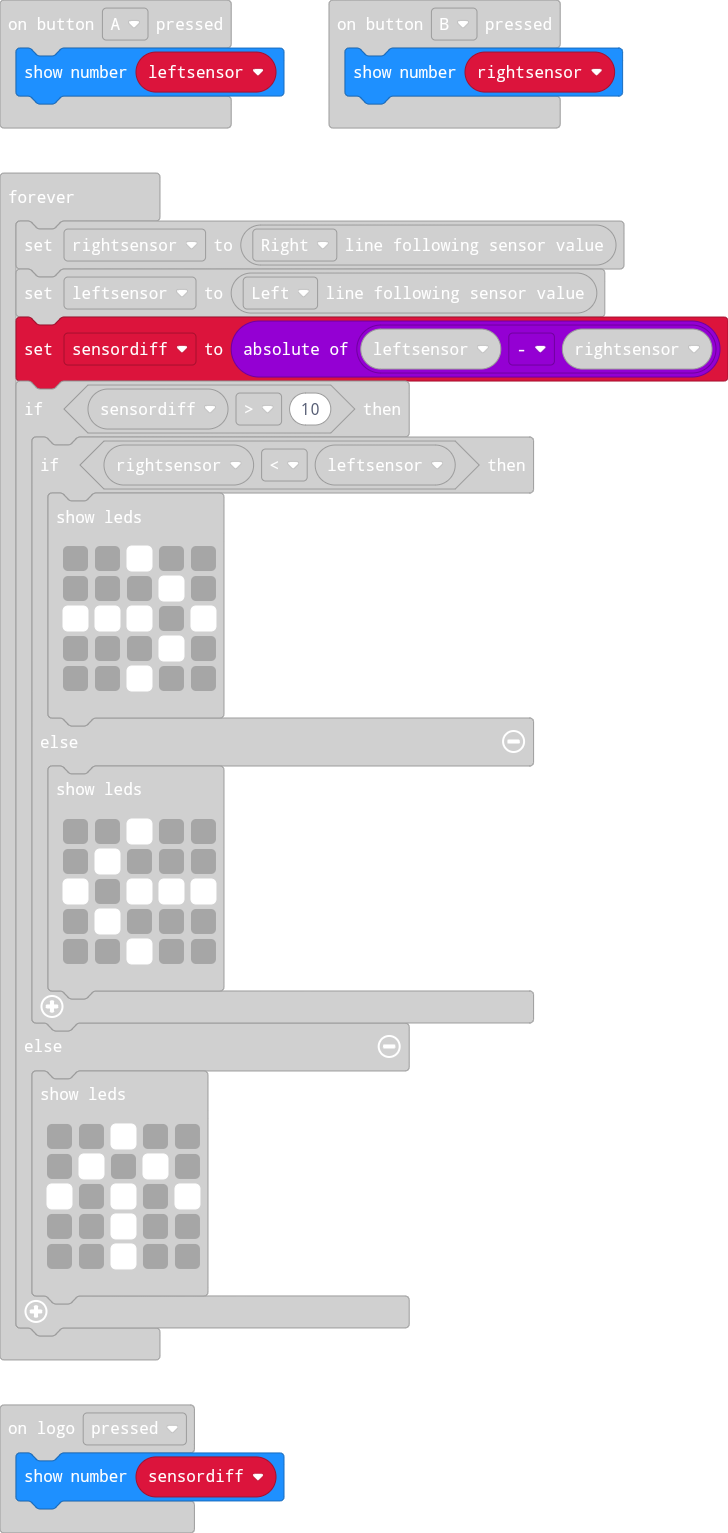
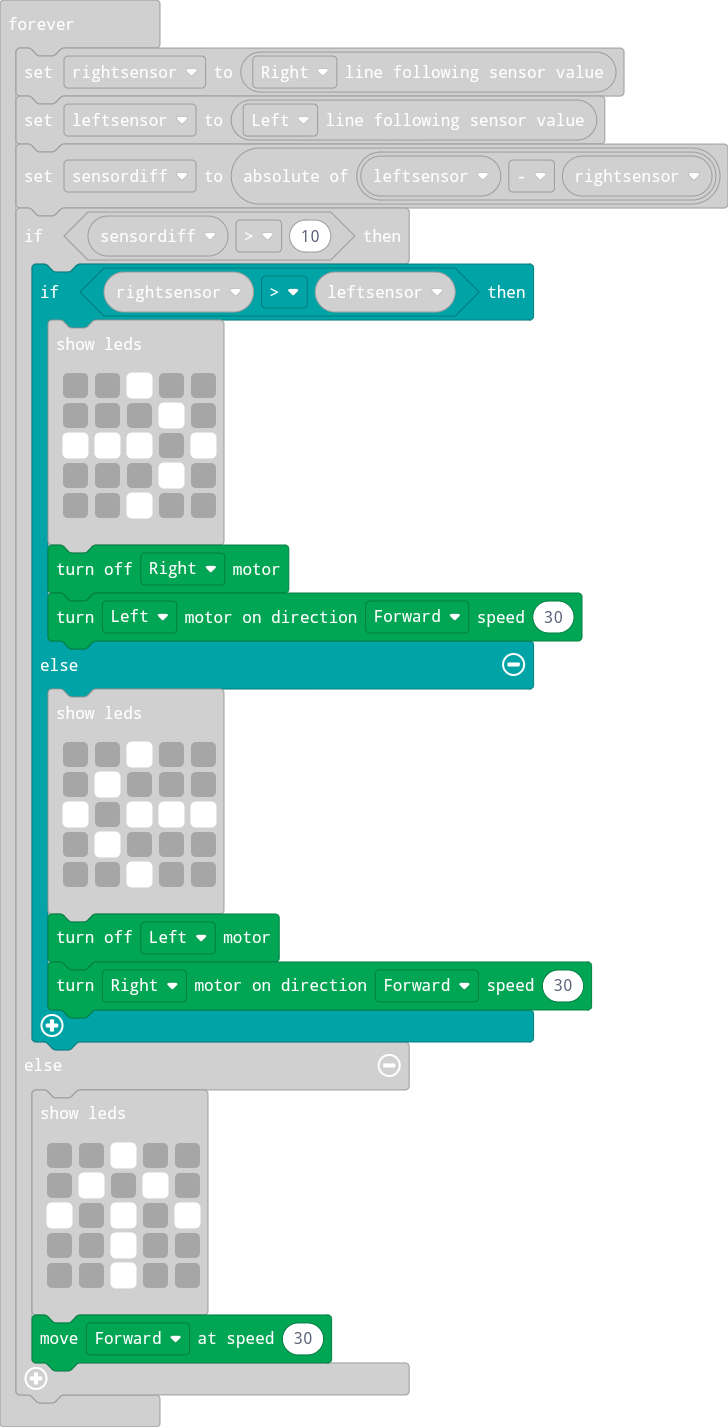
Update main.blocks, main.ts

diff --git a/main.ts b/main.ts
@@ -16,7 +16,7 @@ basic.forever(function () {
     leftsensor = Kitronik_Move_Motor.readSensor(Kitronik_Move_Motor.LfSensor.Left)
     sensordiff = Math.abs(leftsensor - rightsensor)
     if (sensordiff > 10) {
-        if (rightsensor < leftsensor) {
+        if (rightsensor > leftsensor) {
             basic.showLeds(`
                 . . # . .
                 . . . # .
@@ -24,6 +24,8 @@ basic.forever(function () {
                 . . . # .
                 . . # . .
                 `)
+            Kitronik_Move_Motor.motorOff(Kitronik_Move_Motor.Motors.MotorRight)
+            Kitronik_Move_Motor.motorOn(Kitronik_Move_Motor.Motors.MotorLeft, Kitronik_Move_Motor.MotorDirection.Forward, 30)
         } else {
             basic.showLeds(`
                 . . # . .
@@ -32,6 +34,8 @@ basic.forever(function () {
                 . # . . .
                 . . # . .
                 `)
+            Kitronik_Move_Motor.motorOff(Kitronik_Move_Motor.Motors.MotorLeft)
+            Kitronik_Move_Motor.motorOn(Kitronik_Move_Motor.Motors.MotorRight, Kitronik_Move_Motor.MotorDirection.Forward, 30)
         }
     } else {
         basic.showLeds(`
@@ -41,5 +45,6 @@ basic.forever(function () {
             . . # . .
             . . # . .
             `)
+        Kitronik_Move_Motor.move(Kitronik_Move_Motor.DriveDirections.Forward, 30)
     }
 })
